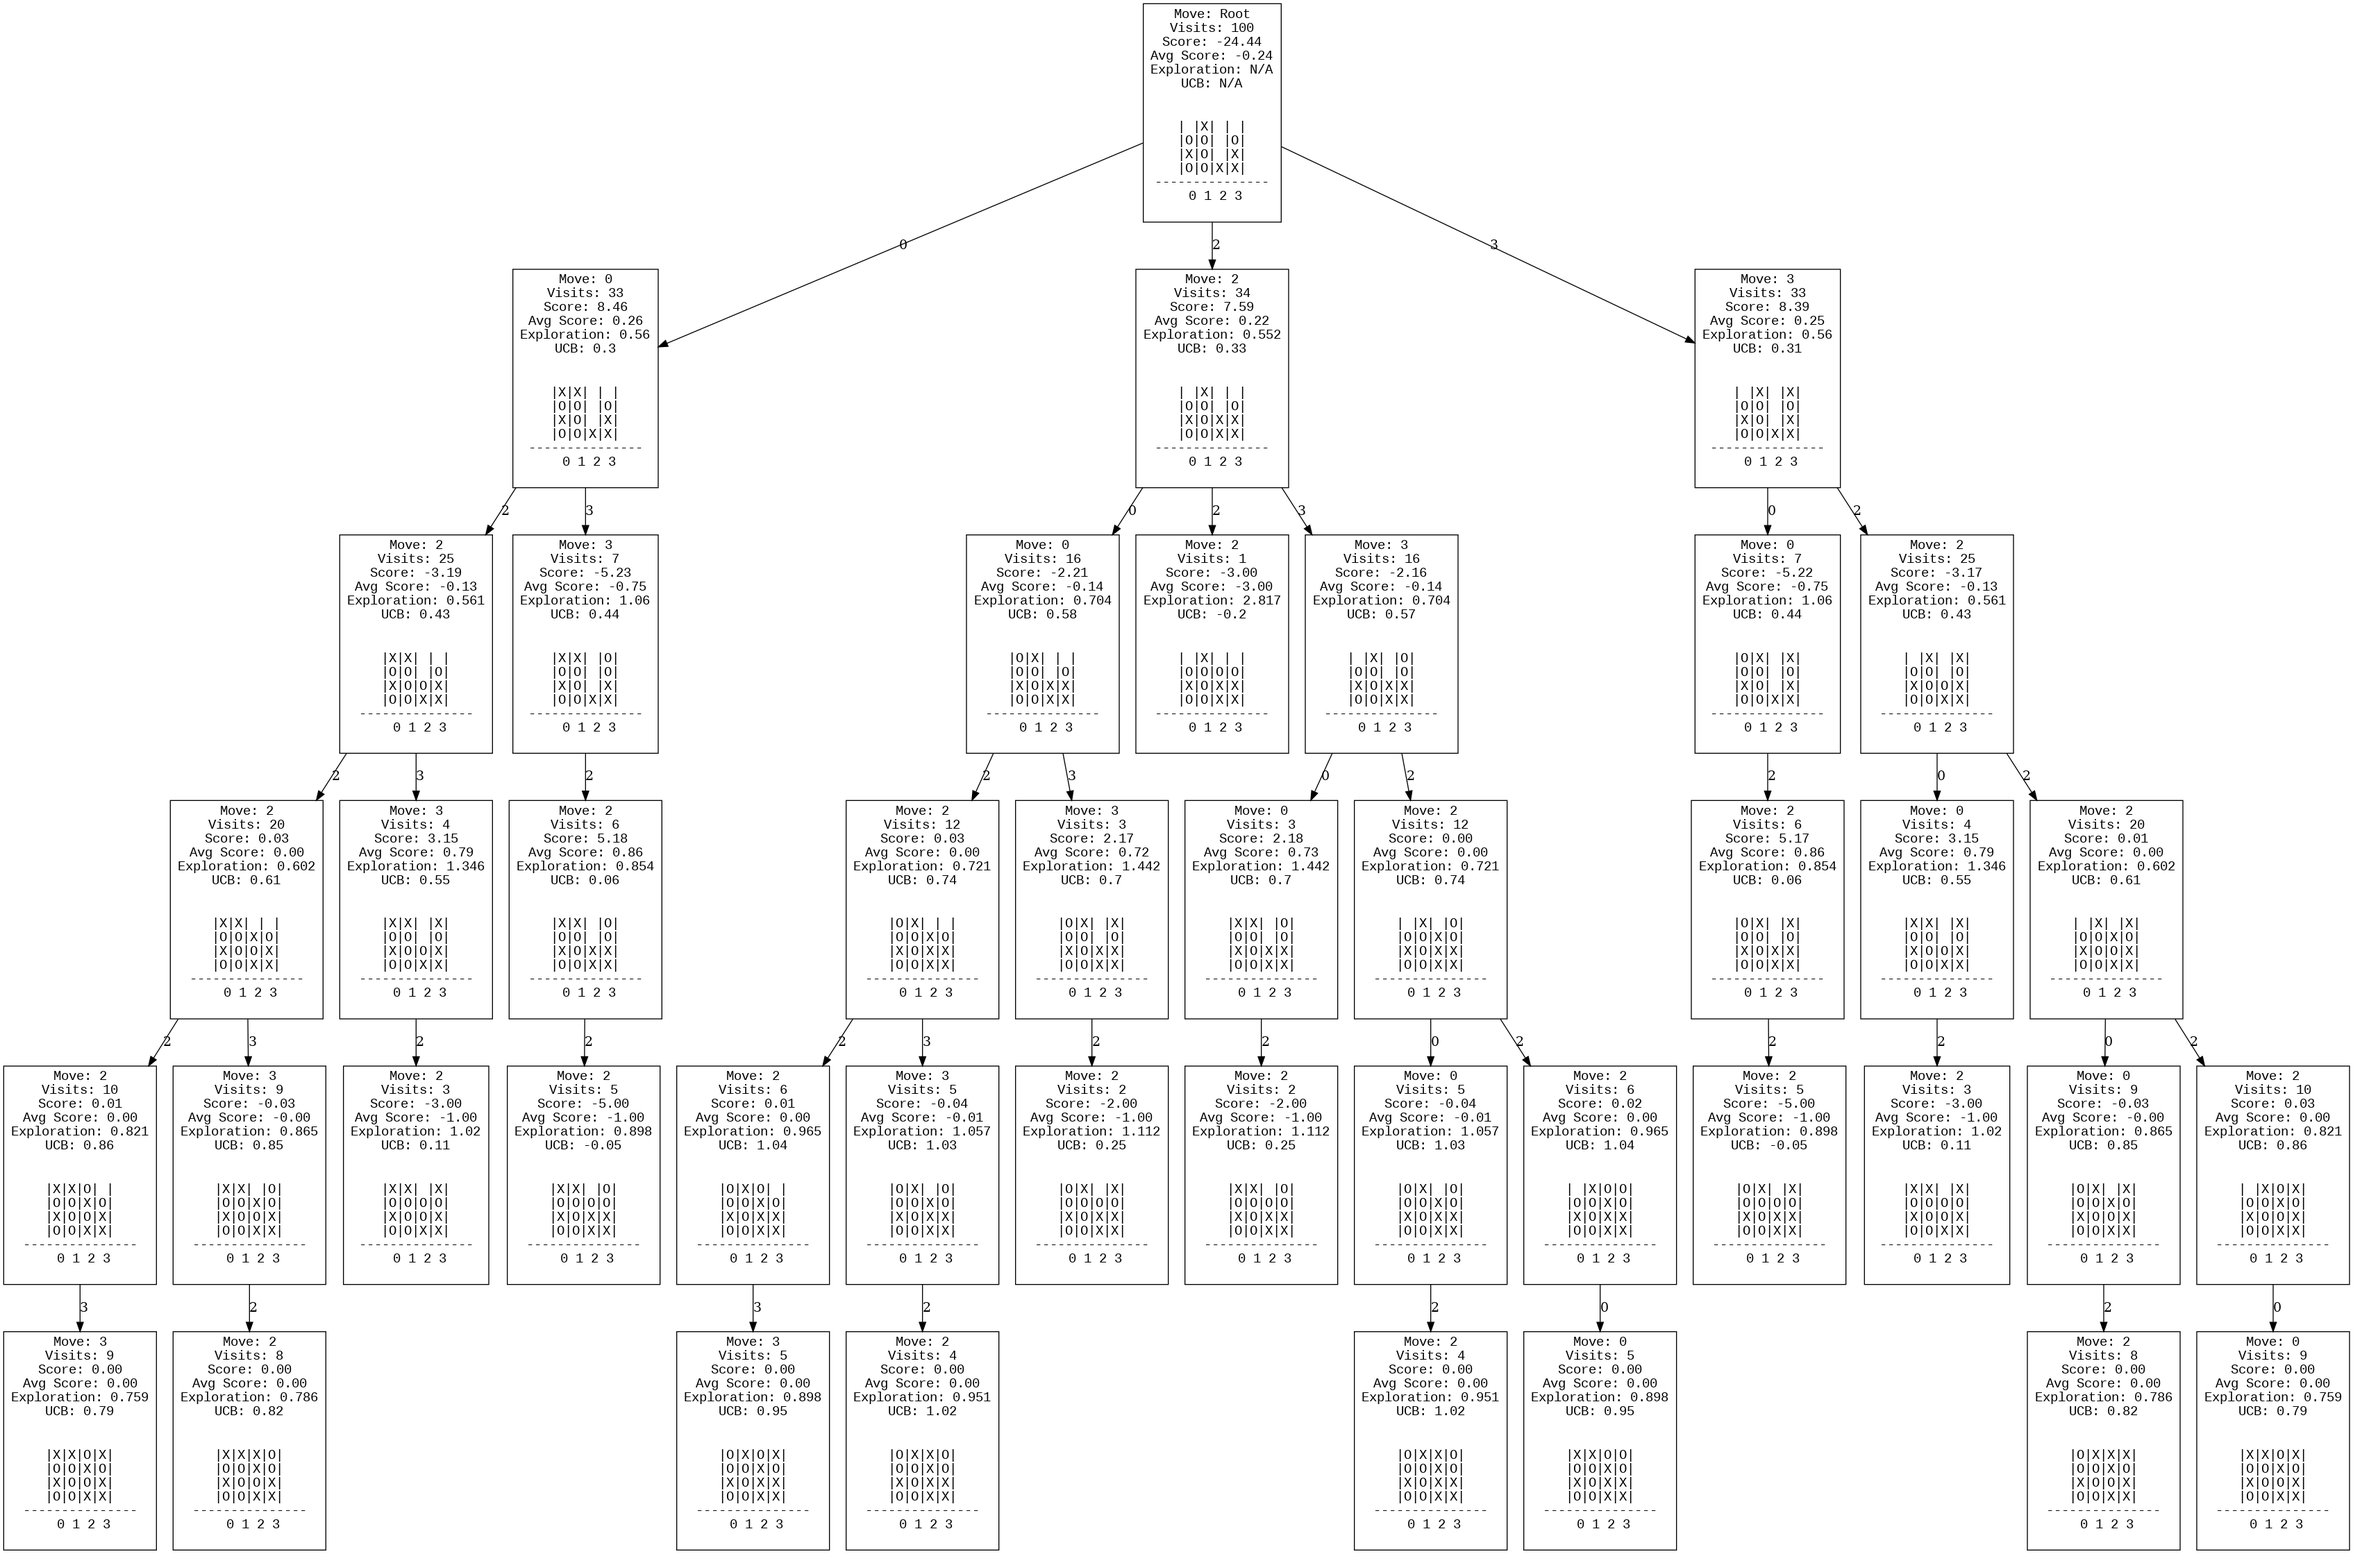
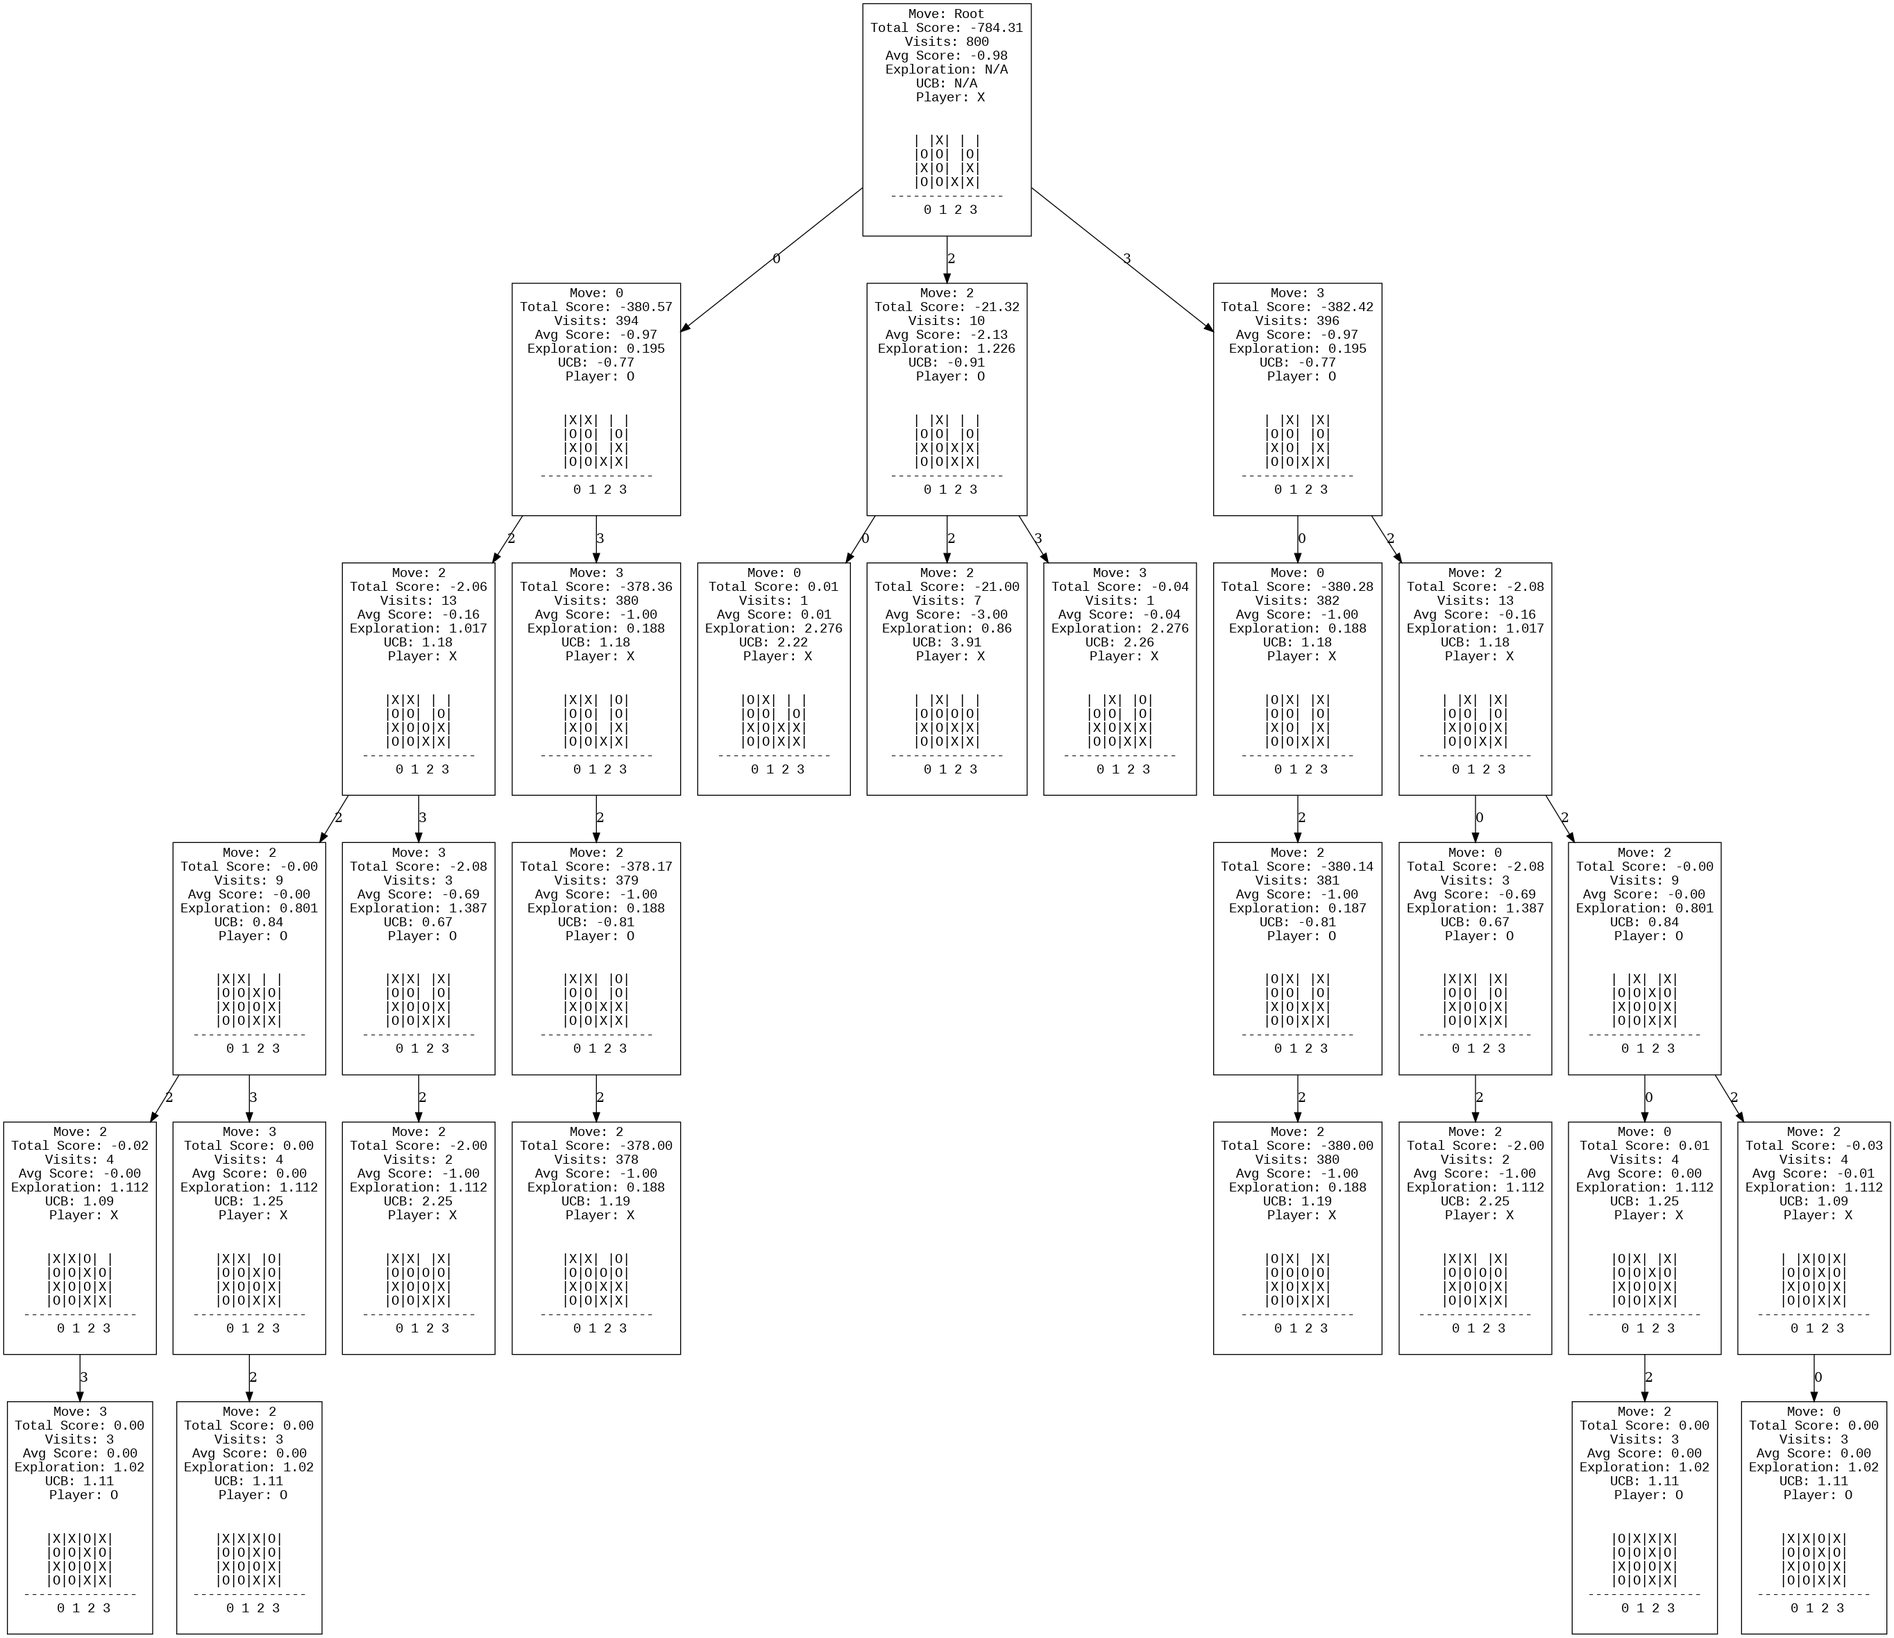
Fixed supervised mcts bug, add tree visualizer, evaluation functions

diff --git a/util/supervised_mcts.py b/util/supervised_mcts.py
@@ -64,7 +64,7 @@ class MCTSNode:
             self.ucb_score = score
             return score
 
-        exploitation = (self.total_score / self.num_visits) * self.turn
+        exploitation = (self.total_score / self.num_visits) * -1 * self.turn
 
         exploration = exploration_constant * math.sqrt(
             math.log(self.parent.num_visits) / self.num_visits
@@ -81,18 +81,13 @@ class MCTSNode:
         vals = {}
         num_visits = {}
         for move, child in self.children.items():
-            value = child.get_ucb(exploration_param)  # * self.turn
+            value = child.get_ucb(exploration_param)
             vals[move] = value
             num_visits[move] = child.num_visits
 
             if value > best_value:
                 best_value = value
                 best_node = child
-
-        # rounded_vals = {move: round(val, 2) for move, val in vals.items()}
-        # self.game.print_pretty()
-        # print(f"UCB values: {rounded_vals}")
-        # print(f"Visit counts: {num_visits}")
 
         return best_node
 
@@ -201,7 +196,7 @@ class SupervisedMCTS:
             )
 
             # Format the label with statistics and game state
-            label = f"Move: {node.move if node.move is not None else 'Root'}\nVisits: {node.num_visits}\nScore: {node.total_score:.2f}\nAvg Score: {node.total_score / node.num_visits:.2f}\nExploration: {exploration}\nUCB: {ucb}\n"
+            label = f"Move: {node.move if node.move is not None else 'Root'}\nTotal Score: {node.total_score:.2f}\nVisits: {node.num_visits}\nAvg Score: {node.total_score / node.num_visits:.2f}\nExploration: {exploration}\nUCB: {ucb}\n Player: {"X" if node.turn == 1 else "O"}\n"
             label += game_display
 
             # Replace newlines with \n for proper display in graphviz
@@ -289,7 +284,7 @@ class SupervisedMCTS:
     def backpropagation(self, node: MCTSNode, result: float):
         while node is not None:
             node.num_visits += 1
-            node.total_score += result * node.turn
+            node.total_score += result
             node = node.parent
 
     # supervised mcts
@@ -359,7 +354,7 @@ def evaluate_supervised_mcts_accuracy(num_samples=100, mcts_iterations=500):
     correct = 0
     total = 0
 
-    model_path = "models/connect4_4x4_supervised.pt"
+    model_path = "models/connect4_4x4_supervised_100k.pt"
     device = torch.device("cuda" if torch.cuda.is_available() else "cpu")
     mcts = SupervisedMCTS(
         model_path=model_path, iterations=mcts_iterations, device=device
@@ -423,7 +418,7 @@ def evaluate_supervised_mcts_on_test_data(
         f"Evaluating SupervisedMCTS on test data with exploration constant: {exploration_constant}, and iterations: {mcts_iterations}"
     )
     # Load the full dataset that was generated earlier.
-    data_path = "data/connect4_4x4_training_data.npy"
+    data_path = "data/connect4_4x4_training_data_100k.npy"
     transformer = DataTransformer(data_path, batch_size=1)
 
     # 2,000 test data samples (20% test from original 10,000 samples)
@@ -439,7 +434,7 @@ def evaluate_supervised_mcts_on_test_data(
         num_samples = min(num_samples, len(eval_boards))
 
     device = torch.device("cuda" if torch.cuda.is_available() else "cpu")
-    model_path = "models/connect4_4x4_supervised.pt"
+    model_path = "models/connect4_4x4_supervised_100k.pt"
 
     correct = 0
     incorrect = 0

diff --git a/run_supervisedMCTS.py b/run_supervisedMCTS.py
@@ -4,9 +4,9 @@ import torch
 
 
 device = torch.device("cuda" if torch.cuda.is_available() else "cpu")
-model_path = "models/connect4_4x4_supervised.pt"
+model_path = "models/connect4_4x4_supervised_100k.pt"
 
-iterations = 100
+iterations = 800
 exploration_constant = 1.5
 
 cases = [
@@ -56,12 +56,13 @@ for i, case in enumerate(cases):
     move_probs = supervised_mcts.search(game)
     print(f"Case {i+1}: Move probabilities: {move_probs}")
 
+    # creates a tree visualization png
     supervised_mcts.tree_visualization()
 
 
 # evaluate on test data
 accuracy = evaluate_supervised_mcts_on_test_data(
-    num_samples=100,
+    num_samples=20_000,
     mcts_iterations=iterations,
     exploration_constant=exploration_constant,
 )
